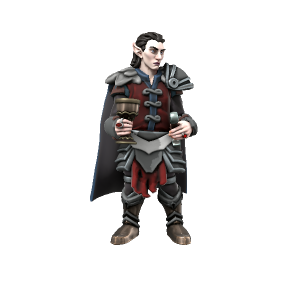
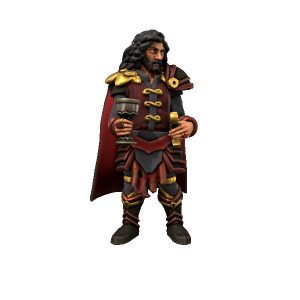
Make Strahd more like Vlad The Impaler

Changed region(s): [[0.3, 0.09, 0.66, 0.84]]

diff --git a/source/People/Vampires/Strahd Drakul.md b/source/People/Vampires/Strahd Drakul.md
@@ -19,4 +19,7 @@ Strahd has no regard for others, he cares for no one but himself. He's fallen in
 ---
 
 ### The First Vampire
-Strahd promised his allegience to [Erodite](../../Cosmology/Daemons/Erodite.md) in exchange for powers of seduction, to [Avikath](../../Cosmology/Daemons/Malefices/Avikath.md) in exchange for power, and to [Loga](../../Cosmology/Daemons/Malefices/Loga.md) in exchange for the ability to bend others to his will. All believed they were his sole master, but all were deceived. With none wanting to claim him for fear of conflict with one another, Strahd walked away with powers beyond any mortal before, having given nothing.
+Strahd promised his allegience to [Erodite](../../Cosmology/Daemons/Erodite.md) in exchange for powers of seduction, to [Avikath](../../Cosmology/Daemons/Malefices/Avikath.md) in exchange for wealth, to [Loga](../../Cosmology/Daemons/Malefices/Loga.md) in exchange for cunning and to [Surtr](../../Cosmology/Daemons/Malefices/Zukothoth.md) for the power to bring about destruction. All believed they were his sole master, but all were deceived. With none wanting to claim him for fear of conflict with one another, Strahd walked away with powers beyond any mortal before, having given nothing.
+
+### Prince of Zarovia
+Strahd was never first in line for his throne - he took it by force, murdering his own brothers to do so. He rules [Zarovia](../../Locations/Zarovia/index.md) with an iron fist, working his people to breaking point to turn the provincial princedom into a military powerhouse.

diff --git a/source/Cosmology/Daemons/Malefices/Loga.md b/source/Cosmology/Daemons/Malefices/Loga.md
@@ -2,4 +2,4 @@
 
 *Malefix of deception*
 
-Loga The Deceiver is born from the will to deceive others. An unpopular figure even among other malefices, his complex webs of lies make it almost impossible to gain the upper hand over him. Only one person, celestial or mortal, has ever successfully tricked him: [Strahd](../../../People/Vampires/Strahd.md).
+Loga The Deceiver is born from the will to deceive others. An unpopular figure even among other malefices, his complex webs of lies make it almost impossible to gain the upper hand over him. Only one person, celestial or mortal, has ever successfully tricked him: [Strahd Drakul](../../../People/Vampires/Strahd%20Drakul.md).

diff --git a/source/People/Vampires/index.md b/source/People/Vampires/index.md
@@ -1,4 +1,4 @@
-Vampires came into being through an act of trickery by [Strahd](Strahd.md), the first vampire. 
+Vampires came into being through an act of trickery by [Strahd Drakul](Strahd%20Drakul.md), the first vampire. 
 
 ### Vampiric Venom
 When bitten by a vampire, their fangs inject into the host a potent venom which can leave the victim dead within the hour. The only known cure is to drink the blood of the vampire to whom the venom belongs, completing the vampirification process and turning the victim into a vampire themself. Otherwise, once dead, the victim will rise again as an undead thrall, entirely in service of their assailant.
